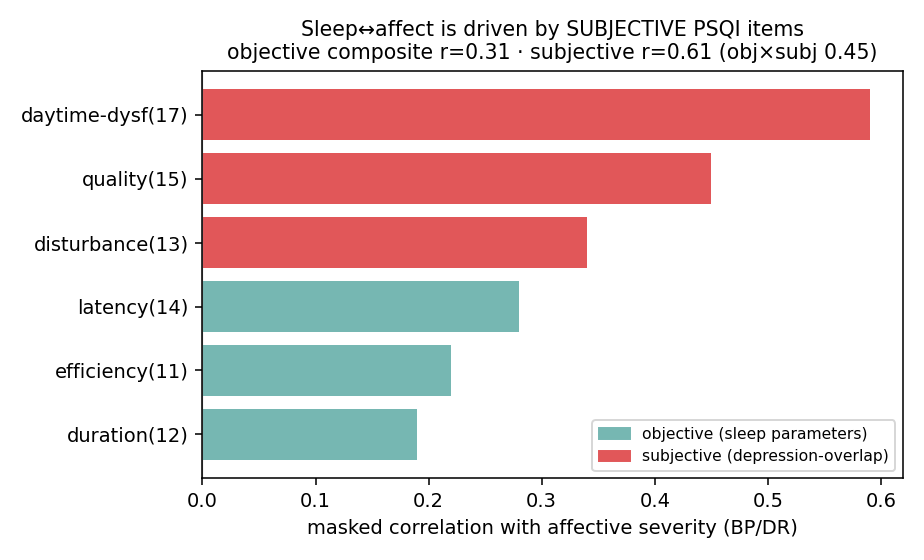
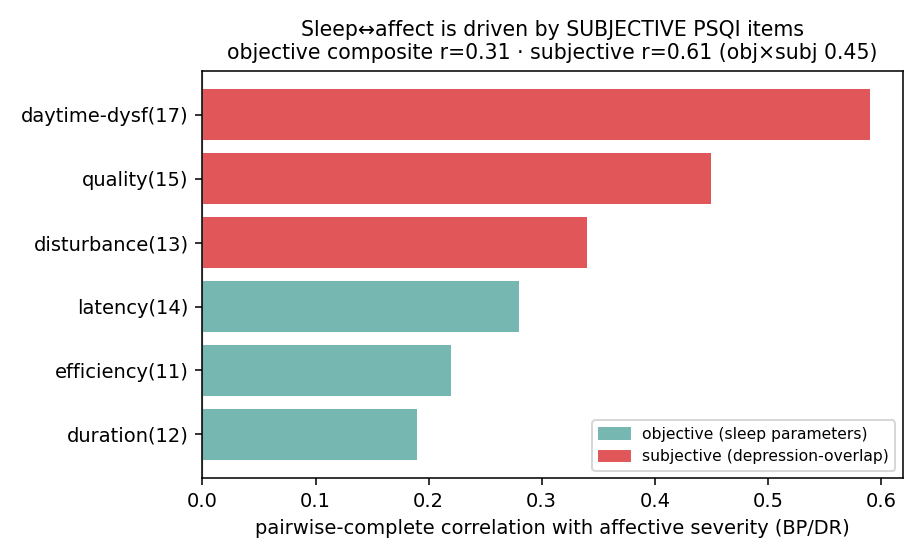
docs(v3): reword 'masked' → 'pairwise-complete' / 'observed-cell' across the V3 surface
The sleep-sensitivity diagnostic uses pairwise-complete (observed-support) correlations;
rename for precision and to avoid the loaded term. Regenerate the figure label.

Changed region(s): [[0.2727, 0.9107, 0.9091, 0.9714]]

diff --git a/scripts/v3/06_sleep_affect_sensitivity.py b/scripts/v3/06_sleep_affect_sensitivity.py
@@ -1,7 +1,7 @@
 """V3 — sleep ↔ affective sensitivity (is sleep a separable dimension or a depression facet?).
 
 The extended model (V3-6) found sleep×affective = 0.68 in the mood cohorts. This decomposes that
-coupling at the PSQI sub-item level (masked / pairwise-complete correlations, no imputation), to test
+coupling at the PSQI sub-item level (pairwise-complete correlations, no imputation), to test
 whether it is genuine sleep–depression co-occurrence or PSQI method overlap with depression symptoms.
 
 Verdict logic: if the coupling is concentrated in the SUBJECTIVE / daytime-dysfunction items (which
@@ -82,7 +82,7 @@ def main():
     fig, ax = plt.subplots(figsize=(6.6, 4.0))
     ax.barh(range(len(t)), t["r_affect"], color=[cmap[k] for k in t["kind"]])
     ax.set_yticks(range(len(t))); ax.set_yticklabels(t["item"])
-    ax.set_xlabel("masked correlation with affective severity (BP/DR)")
+    ax.set_xlabel("pairwise-complete correlation with affective severity (BP/DR)")
     ax.set_title("Sleep↔affect is driven by SUBJECTIVE PSQI items\n"
                  f"objective composite r={r_obj:.2f} · subjective r={r_subj:.2f} (obj×subj {r_os:.2f})", fontsize=10.5)
     ax.axvline(0, color="#999", lw=0.6)

diff --git a/docs/V3_PLAN.md b/docs/V3_PLAN.md
@@ -247,8 +247,8 @@ project-management layer.
   validated decision regions`.
 - **J2 Fit probabilistic strata** on posterior dimension scores (LPA, Bayesian GMM, mixture-of-factors,
   consensus clustering, risk-threshold regions); keep `P(stratum=k)` and assignment entropy.
-- **J3 Sensitivity:** direct raw-data stratification (masked-similarity on observed cells, Gower/HDBSCAN,
-  masked autoencoder) compared to dimension-based strata — a secondary control, not the headline.
+- **J3 Sensitivity:** direct raw-data stratification (observed-cell similarity, Gower/HDBSCAN,
+  missingness-aware autoencoder) compared to dimension-based strata — a secondary control, not the headline.
 
 ### Phase K — Strata validation
 - **K1 Statistical stability** (bootstrap, diagnosis-balanced subsampling, leave-one-site-out, posterior

diff --git a/docs/FINDINGS.md b/docs/FINDINGS.md
@@ -139,7 +139,7 @@ Paper-oriented log of empirical + methodological findings for **V3**. Plan of re
 
 - **V3-7 · Sleep↔affective sensitivity → objective-sleep model (canonical) — 2026-06-05.**
   `scripts/v3/06_sleep_affect_sensitivity.py` + `04_extended_model.py --sleep objective`. The V3-6
-  sleep×affective 0.68 was interrogated: PSQI sub-item × affective masked correlations show the coupling
+  sleep×affective 0.68 was interrogated: PSQI sub-item × affective pairwise-complete correlations show it
   is driven by **subjective** items (daytime-dysfunction 0.59, quality 0.45; composite 0.61), while
   **objective** sleep parameters (efficiency/duration/latency; composite 0.31) are weakly affect-coupled.
   Refitting with objective sleep items only → factor-level **sleep×affective 0.68 → 0.54**, still

diff --git a/docs/LABBOOK_V3.md b/docs/LABBOOK_V3.md
@@ -236,7 +236,7 @@ metabolic/inflammatory split.
 ## V3-7 · Sleep↔affective sensitivity → objective-sleep model (canonical) — 2026-06-05
 
 **What we did.** Investigated the sleep×affective = 0.68 from the extended model. (1) **Item decomposition**
-(`scripts/v3/06_sleep_affect_sensitivity.py`): masked correlation of each PSQI sub-item with affective
+(`scripts/v3/06_sleep_affect_sensitivity.py`): pairwise-complete correlation of each PSQI sub-item with affective
 severity (BP/DR) → **objective** parameters (efficiency 0.22, duration 0.19, latency 0.28; composite 0.31)
 vs **subjective** items (disturbance 0.34, quality 0.45, **daytime-dysfunction 0.59**; composite 0.61).
 (2) **Factor confirmation**: refit the extended model with the objective sleep items only

diff --git a/docs/V3_RESULTS.md b/docs/V3_RESULTS.md
@@ -62,7 +62,7 @@ items anchor suicidality. No Heywood blow-ups under the marginalized estimator.
 ## 3 · Sleep ↔ affective — why "objective" sleep, and what the 0.54 means
 
 The first specification used the full PSQI sleep factor and gave sleep×affective = **0.68**. Decomposing
-that coupling at the PSQI sub-item level (masked correlations with affective severity, BP/DR) shows it is
+that coupling at the PSQI sub-item level (pairwise-complete correlations with affective severity, BP/DR) shows it is
 driven by the **subjective** items, which overlap with depression symptoms:
 
 ![PSQI item × affect](figures/v3/sleep_affect_items.png)
